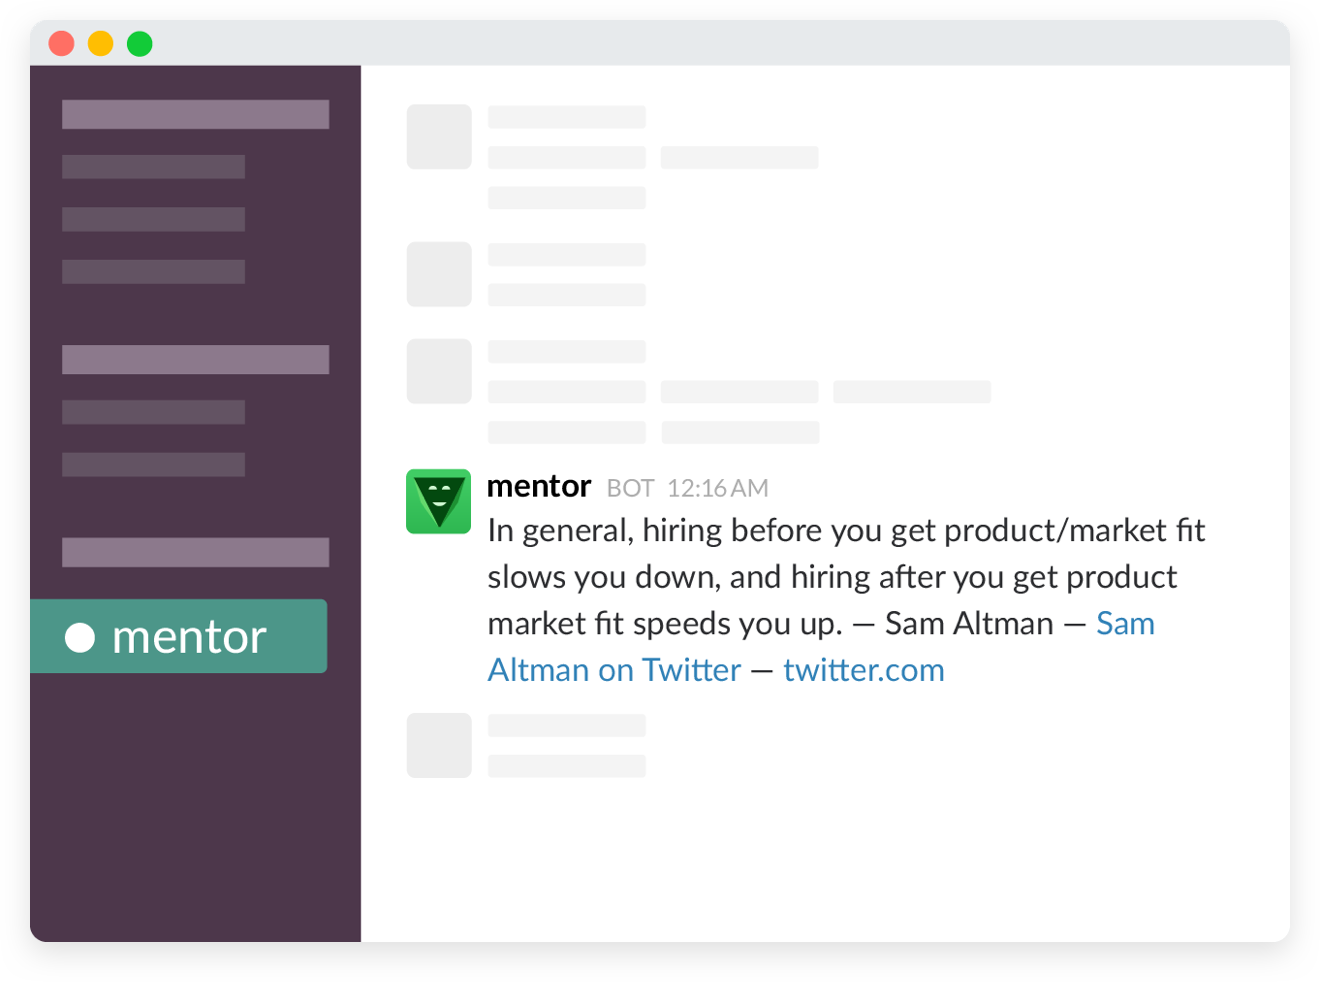
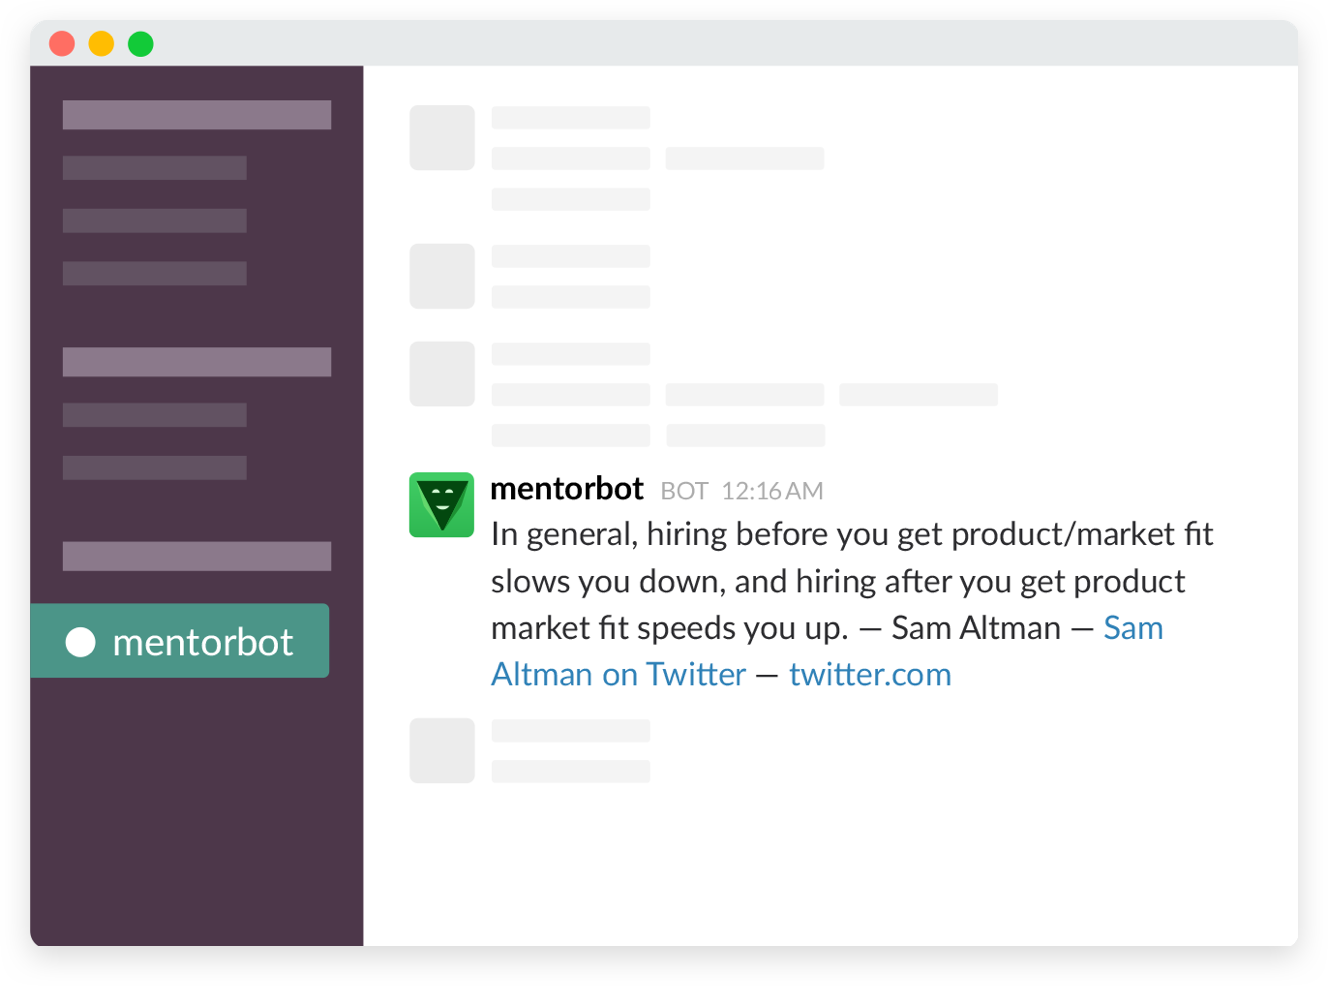
updated landing app

diff --git a/public/bundles/javascript.bundle.js b/public/bundles/javascript.bundle.js
@@ -23644,8 +23644,8 @@
 	          'This Slack bot is part of The Virtual Mentor app (currently in beta). Want to have your own mentor to give you proven actionable advice on the go? ',
 	          _react2.default.createElement(
 	            'a',
-	            { href: '', onClick: this.handleSignUpLink.bind(this) },
-	            'Sign up for the private beta!'
+	            { href: 'mailto:team@insights.vc' },
+	            'Sign up for the private beta testing!'
 	          )
 	        ),
 	        _react2.default.createElement(
@@ -23737,7 +23737,7 @@
 	          _react2.default.createElement(
 	            "strong",
 	            null,
-	            "Mentor"
+	            "MentorBot"
 	          ),
 	          " to Slack"
 	        )

diff --git a/frontend/javascripts/containers/LandingApp.js b/frontend/javascripts/containers/LandingApp.js
@@ -90,7 +90,7 @@ class LandingApp extends Component {
         <p>
           This Slack bot is part of The Virtual Mentor app (currently in beta).
           Want to have your own mentor to give you proven actionable advice
-          on the go? <a href="" onClick={ this.handleSignUpLink.bind(this) }>Sign up for the private beta!</a>
+          on the go? <a href="mailto:team@insights.vc">Sign up for the private beta testing!</a>
         </p>
         <p>
           Follow <i className="fa fa-twitter"/> <a href="https://twitter.com/thementorapp" target="_blank">@thementorapp</a>

diff --git a/public/bundles/stylesheet.bundle.css b/public/bundles/stylesheet.bundle.css
@@ -2334,12 +2334,12 @@ footer {
   padding: 30px; }
   #landing-container > section.features > .slack-window {
     margin: 0 30px 10px 0;
-    width: 573.91304px;
-    height: 426.95652px;
+    width: 577.3913px;
+    height: 429.56522px;
     background-image: url("/images/SlackWindow@2x.png");
     background-size: cover; }
   #landing-container > section.features > .description {
-    width: 573.91304px;
+    width: 577.3913px;
     padding-top: 3px; }
     #landing-container > section.features > .description > h1 {
       font-size: 32px;

diff --git a/frontend/stylesheets/landing.scss b/frontend/stylesheets/landing.scss
@@ -109,8 +109,8 @@ $giant-font-size: $primary-font-size * 1.5;
     @include justify-content(center);
     @include flex-wrap(wrap);
 
-    $slack-window-width: 1320px;
-    $slack-window-height: 982px;
+    $slack-window-width: 1328px;
+    $slack-window-height: 988px;
     $reduction-ratio: 2.3;
 
     background-color: #FFFFFF;

diff --git a/frontend/javascripts/components/SlackButton.js b/frontend/javascripts/components/SlackButton.js
@@ -11,7 +11,7 @@ class SlackButton extends Component {
     return (
       <div className="slack-button" onClick={ this.handleSlackButtonClick.bind(this) }>
         <i/>
-        <span>Add <strong>Mentor</strong> to Slack</span>
+        <span>Add <strong>MentorBot</strong> to Slack</span>
       </div>
     )
   }
